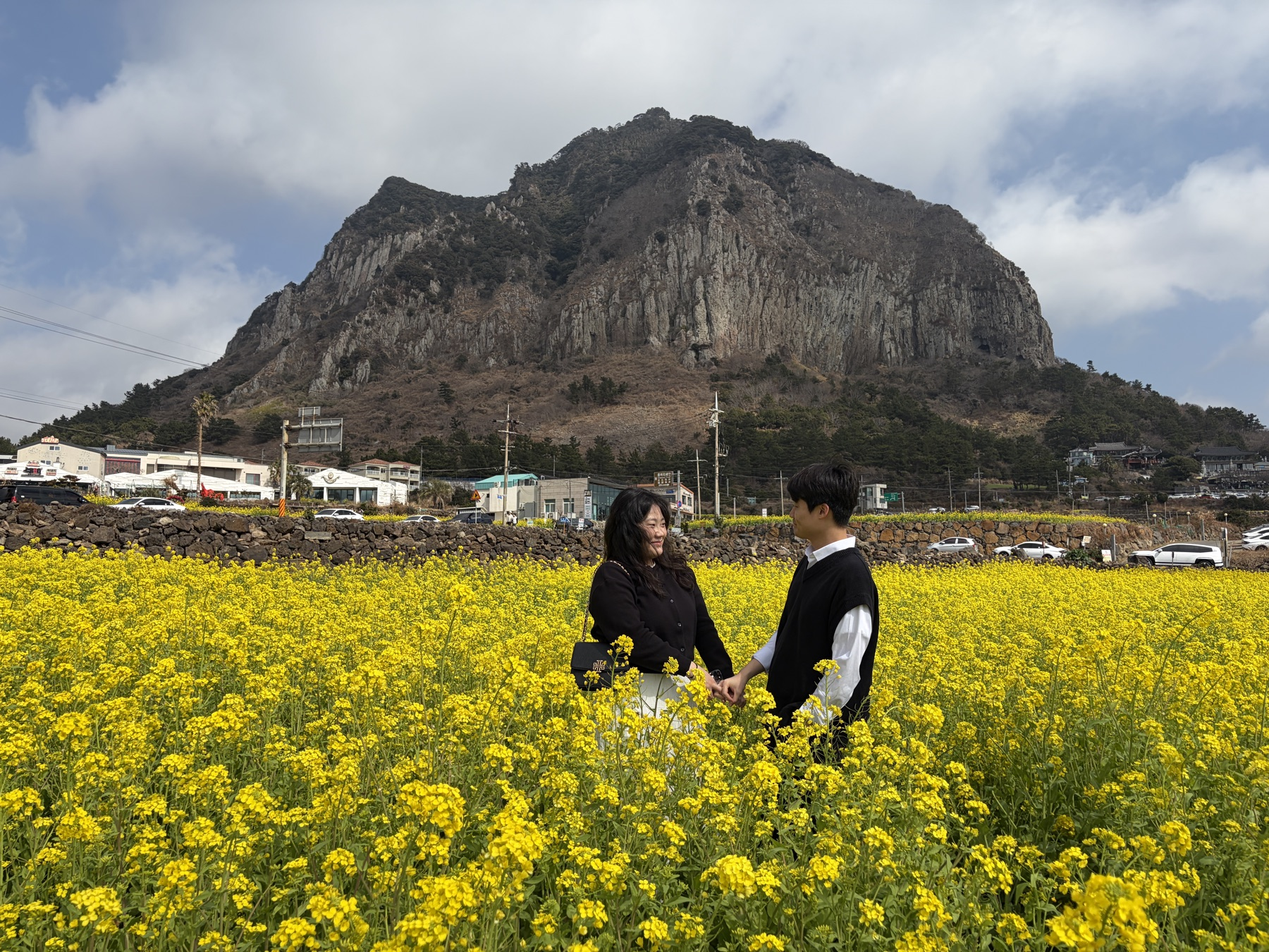
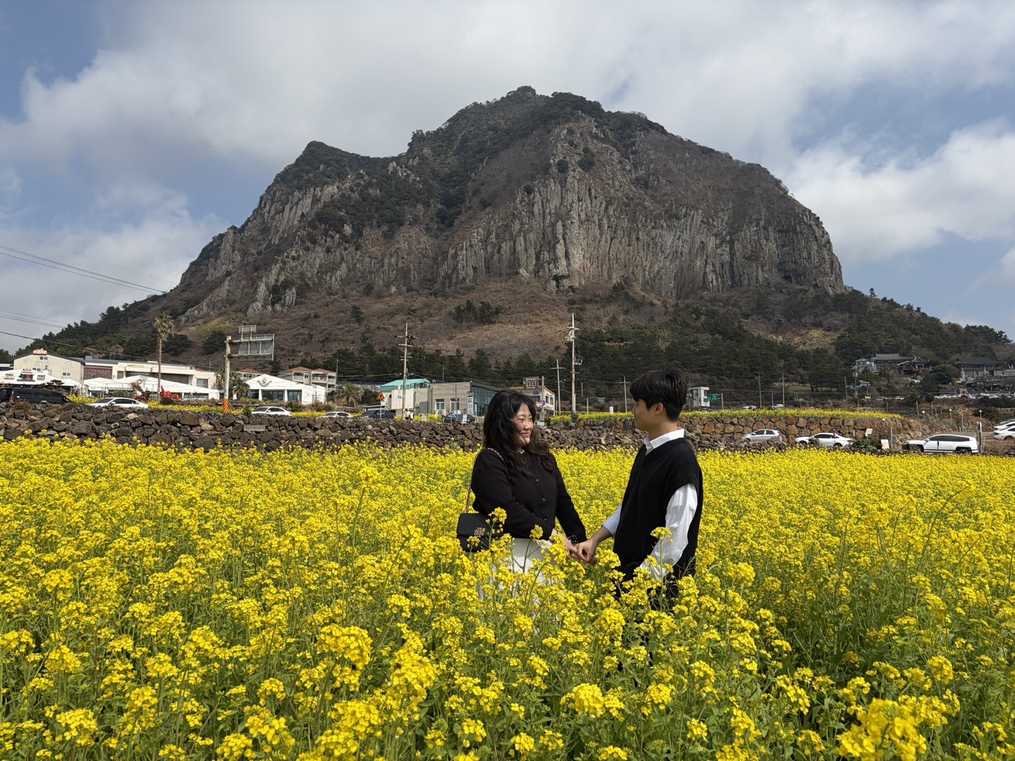
perf: refine hero profiles and image

Changed region(s): [[0.4688, 0.6722, 0.5, 0.7028]]

diff --git a/src/sections/HeroSection.tsx b/src/sections/HeroSection.tsx
@@ -21,11 +21,11 @@ const SCROLL_INDICATOR_FADE_END_PX = 140
 
 const STORY_PICKERS = {
   bride: {
-    nickname: 'yoooungenie',
+    nickname: 'genie',
     profileImage: brideProfileImage,
   },
   groom: {
-    nickname: 'sangyeon.park',
+    nickname: 'yeonie',
     profileImage: groomProfileImage,
   },
 } as const
@@ -97,8 +97,8 @@ export function HeroImageSection() {
       <img
         className="hero-section__image"
         src={heroImage}
-        width="1800"
-        height="1350"
+        width="1440"
+        height="1080"
         alt={`${invitation.couple.groom}과 ${invitation.couple.bride}의 웨딩 이미지`}
       />
     </section>
@@ -664,8 +664,8 @@ export function HeroSection({ isPlaybackEnabled }: HeroSectionProps) {
       <img
         className="hero-section__image hero-story__fallback"
         src={heroImage}
-        width="1800"
-        height="1350"
+        width="1440"
+        height="1080"
         alt={`${invitation.couple.groom}과 ${invitation.couple.bride}의 웨딩 이미지`}
       />
 
